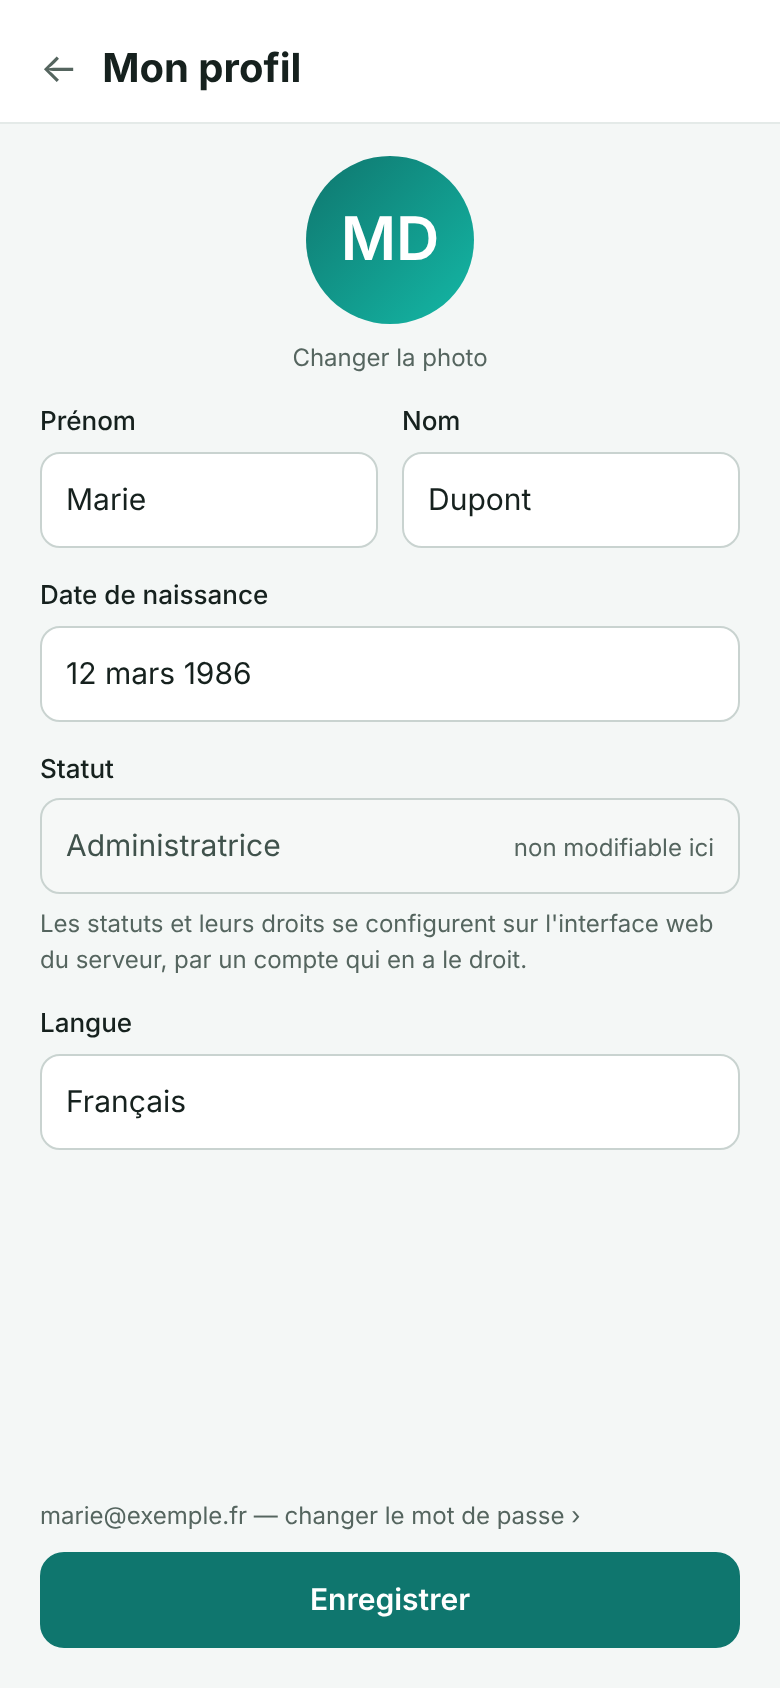
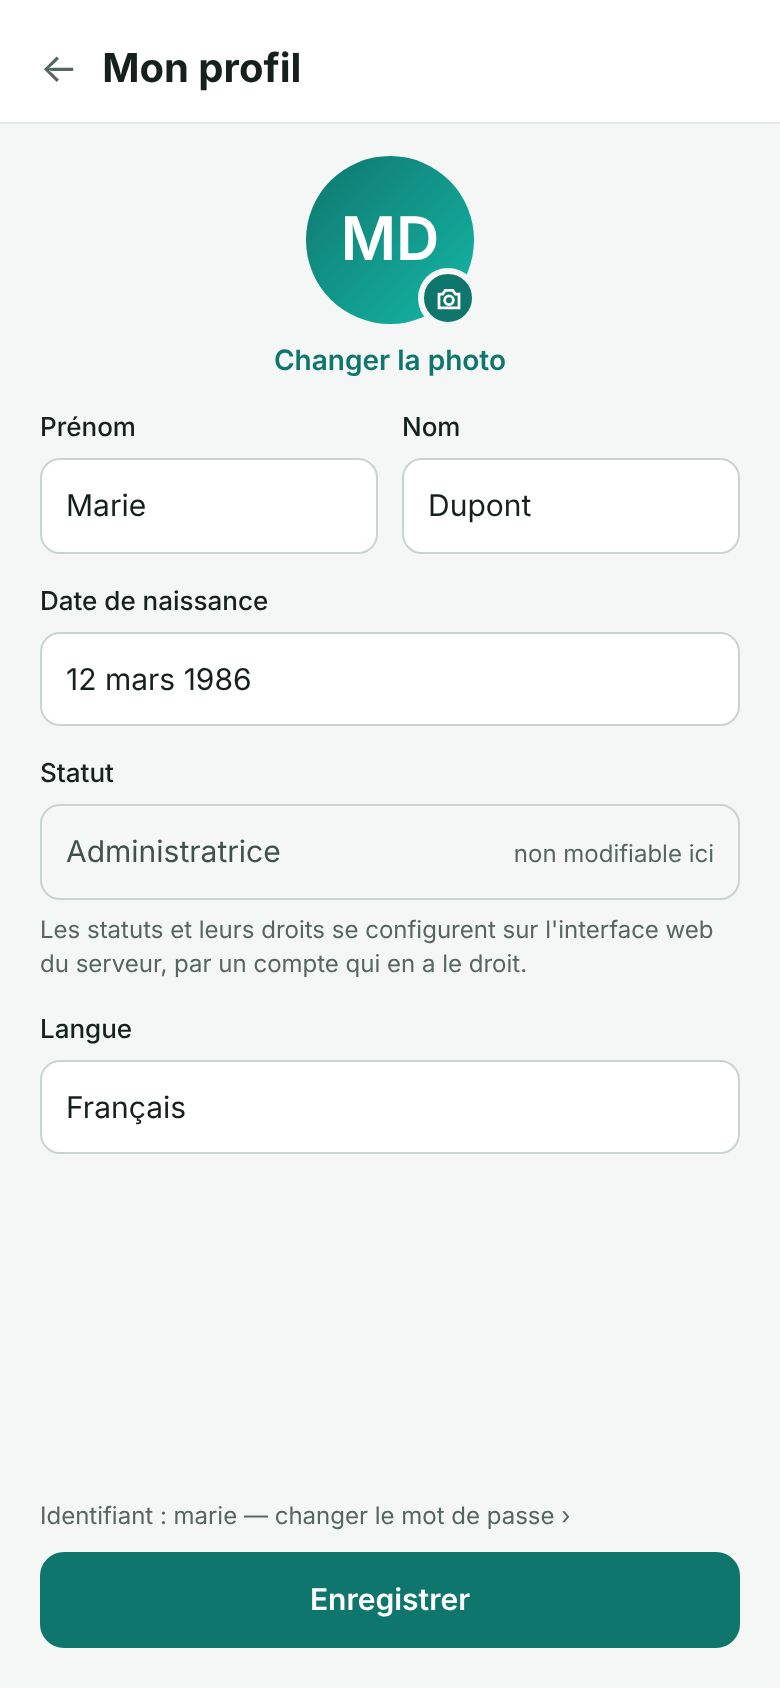
docs(maquettes): ajout rapide, ajout à l'agenda, photo de profil, date de naissance
Claude-Session: https://claude.ai/code/session_01CwM8UZavZyFdh7jkANxEp5

diff --git a/docs/mockups/23-ajout-rapide.html b/docs/mockups/23-ajout-rapide.html
@@ -1,0 +1,120 @@
+<!doctype html>
+<html lang="fr"><head><meta charset="utf-8"><title>Ajout rapide</title><link rel="stylesheet" href="app.css"></head>
+<body style="position:relative">
+  <!-- Pas de sous-titre : « samedi 25 octobre · Maison des Dupont » répétait
+       ce que la barre d'état et l'écran Foyer disent déjà. -->
+  <header class="entete">
+    <!-- Le volet de navigation s'ouvre ici (ou en glissant depuis le bord
+         gauche) : Foyer, Réglages et le reste y vivent. -->
+    <div class="ligne">
+      <svg viewBox="0 0 24 24" width="26" height="26" fill="none" stroke="currentColor" stroke-width="2" stroke-linecap="round"><path d="M4 7h16M4 12h16M4 17h16"/></svg>
+      <div style="flex:1"><h1>Accueil</h1></div>
+    </div>
+  </header>
+
+  <div class="corps" style="gap:16px">
+    <div class="section">
+      <h2>En retard</h2>
+      <div class="carte" style="border-color:var(--alerte-trait);background:var(--alerte-fond)">
+        <div class="ligne">
+          <div class="case"></div>
+          <div style="flex:1;min-width:0">
+            <h3>Changer les draps</h3>
+            <p class="muet" style="color:var(--alerte-encre)">Il y a 23 jours — à refaire dans les 14 jours</p>
+          </div>
+          <span class="etiquette alerte">De fond</span>
+        </div>
+      </div>
+      <div class="carte" style="border-color:var(--alerte-trait)">
+        <div class="ligne">
+          <div class="case"></div>
+          <div style="flex:1;min-width:0">
+            <h3>Changer le fusible</h3>
+            <p class="muet" style="color:var(--alerte-encre)">Date limite dépassée de 2 jours</p>
+          </div>
+          <span class="etiquette urgente">Urgente</span>
+        </div>
+      </div>
+    </div>
+
+    <div class="section">
+      <h2>Mes tâches du jour</h2>
+      <div class="carte">
+        <div class="ligne">
+          <div class="case"></div>
+          <div style="flex:1;min-width:0">
+            <h3>Sortir les poubelles</h3>
+            <p class="groupe" style="margin-top:2px"><i style="background:#0f766e"></i>Cuisine · 19 h 00</p>
+          </div>
+          <span class="etiquette haute">Haute</span>
+        </div>
+      </div>
+      <div class="carte">
+        <div class="ligne">
+          <div class="case cochee">✓</div>
+          <div style="flex:1;min-width:0">
+            <h3 style="text-decoration:line-through;color:var(--gris)">Vider le lave-vaisselle</h3>
+            <p class="muet">Fait à 8 h 12</p>
+          </div>
+        </div>
+      </div>
+    </div>
+
+    <!-- La semaine, pas le seul jour : un rendez-vous de mercredi découvert
+         mercredi matin est découvert trop tard. -->
+    <div class="section">
+      <h2>Rendez-vous de la semaine</h2>
+      <div class="carte pile" style="gap:0">
+        <p class="jour">Aujourd'hui</p>
+        <div class="ligne" style="padding:8px 0">
+          <div style="flex:none;width:46px;text-align:center"><p style="font-weight:700">15:30</p></div>
+          <div style="flex:1;min-width:0;border-left:3px solid var(--accent);padding-left:10px">
+            <h3 style="font-size:15px">Dentiste — Lou</h3>
+            <p class="muet">Cabinet Martin</p>
+          </div>
+        </div>
+        <p class="jour" style="margin-top:6px">Lundi 27</p>
+        <div class="ligne" style="padding:8px 0">
+          <div style="flex:none;width:46px;text-align:center"><p style="font-weight:700">18:00</p></div>
+          <div style="flex:1;min-width:0;border-left:3px solid #7c3aed;padding-left:10px">
+            <h3 style="font-size:15px">Réunion parents</h3>
+            <p class="muet">École — Marie, Paul</p>
+          </div>
+        </div>
+        <p class="muet" style="padding-top:8px;border-top:1px solid var(--trait);margin-top:4px">Voir tout l'agenda ›</p>
+      </div>
+    </div>
+
+    <div class="section">
+      <div class="ligne" style="justify-content:space-between">
+        <h2>À faire par les autres</h2>
+        <span class="muet">3 ▾</span>
+      </div>
+    </div>
+  </div>
+
+<!-- Bouton d'ajout : toujours au même endroit, au-dessus de la barre. -->
+<div style="position:absolute;right:20px;bottom:84px;width:58px;height:58px;border-radius:18px;background:var(--accent);color:#fff;display:flex;align-items:center;justify-content:center;box-shadow:0 6px 16px rgba(15,118,110,.35)"><svg viewBox="0 0 24 24" width="28" height="28" fill="none" stroke="currentColor" stroke-width="2.4" stroke-linecap="round"><path d="M12 5v14M5 12h14"/></svg></div>
+<nav class="nav">
+  <div class="N1 actif"><svg viewBox="0 0 24 24" fill="none" stroke="currentColor" stroke-width="2" stroke-linecap="round"><path d="M3 10.5 12 3l9 7.5"/><path d="M5 10v10h14V10"/></svg>Accueil</div>
+  <div class="N2"><svg viewBox="0 0 24 24" fill="none" stroke="currentColor" stroke-width="2" stroke-linecap="round"><path d="M9 6h11M9 12h11M9 18h11"/><path d="m3 6 1.5 1.5L7 5M3 12l1.5 1.5L7 11M3 18l1.5 1.5L7 17"/></svg>Tâches</div>
+  <div class="N3"><svg viewBox="0 0 24 24" fill="none" stroke="currentColor" stroke-width="2" stroke-linecap="round"><rect x="3" y="5" width="18" height="16" rx="2"/><path d="M8 3v4M16 3v4M3 10h18"/></svg>Agenda</div>
+</nav>
+
+<div style="position:absolute;inset:0;background:rgba(16,23,21,.45)"></div>
+<div style="position:absolute;left:0;right:0;bottom:0;background:var(--surface);border-radius:22px 22px 0 0;padding:10px 20px 24px;display:flex;flex-direction:column;gap:14px">
+  <div style="width:36px;height:4px;border-radius:2px;background:var(--trait-net);margin:0 auto 4px"></div>
+  <h3 style="font-size:18px">Ajouter</h3>
+  <!-- Trois choses à ajouter, le type d'abord : c'est lui qui décide des champs. -->
+  <div class="segment"><span class="actif">Tâche</span><span>Rendez-vous</span><span>De fond</span></div>
+  <div class="champ"><label>Titre</label><div class="saisie">Changer l'ampoule de la salle de bain</div></div>
+  <div class="champ"><label>Quand</label>
+    <div class="filtres"><span>Une fois</span><span class="actif">Avant une date</span><span>Chaque semaine</span></div>
+  </div>
+  <div class="champ"><label>Date limite</label><div class="saisie">Vendredi 30 octobre</div></div>
+  <div class="ligne" style="gap:10px">
+    <div class="bouton" style="flex:1">Plus d'options</div>
+    <div class="bouton primaire" style="flex:1">Ajouter</div>
+  </div>
+</div>
+</body></html>

diff --git a/docs/mockups/25-photo.html b/docs/mockups/25-photo.html
@@ -1,0 +1,67 @@
+<!doctype html>
+<html lang="fr"><head><meta charset="utf-8"><title>Changer la photo</title><link rel="stylesheet" href="app.css"></head>
+<body style="position:relative">
+  <header class="entete">
+    <div class="ligne">
+      <span style="font-size:20px;color:var(--gris)">←</span>
+      <h1 style="font-size:20px">Mon profil</h1>
+    </div>
+  </header>
+
+  <div class="corps" style="gap:14px">
+    <div class="pile" style="align-items:center;gap:8px">
+      <!-- Un appui sur la photo propose : prendre une photo, choisir dans la
+           galerie, ou la retirer (les initiales reviennent). -->
+      <span style="position:relative">
+        <span class="photo grande" style="background:linear-gradient(135deg,#0f766e,#14b8a6)">MD</span>
+        <span style="position:absolute;right:-2px;bottom:-2px;width:30px;height:30px;border-radius:50%;background:var(--accent);color:#fff;border:3px solid var(--fond);display:flex;align-items:center;justify-content:center"><svg viewBox="0 0 24 24" width="15" height="15" fill="none" stroke="currentColor" stroke-width="2.2" stroke-linecap="round"><path d="M4 8h3l2-3h6l2 3h3v11H4z"/><circle cx="12" cy="13" r="3.5"/></svg></span>
+      </span>
+      <p style="font-size:14px;font-weight:600;color:var(--accent)">Changer la photo</p>
+    </div>
+
+    <div class="ligne" style="gap:12px;align-items:flex-end">
+      <div class="champ" style="flex:1">
+        <label>Prénom</label>
+        <div class="saisie">Marie</div>
+      </div>
+      <div class="champ" style="flex:1">
+        <label>Nom</label>
+        <div class="saisie">Dupont</div>
+      </div>
+    </div>
+
+    <div class="champ">
+      <label>Date de naissance</label>
+      <div class="saisie">12 mars 1986</div>
+    </div>
+
+    <!-- Le statut est affiché, pas modifiable : personne ne change son
+         propre statut, et les statuts se configurent au navigateur. -->
+    <div class="champ">
+      <label>Statut</label>
+      <div class="saisie" style="background:var(--surface-douce);color:var(--encre-douce);justify-content:space-between">
+        <span>Administratrice</span><span class="muet">non modifiable ici</span>
+      </div>
+      <p class="muet">Les statuts et leurs droits se configurent sur l'interface web du
+        serveur, par un compte qui en a le droit.</p>
+    </div>
+
+    <div class="champ">
+      <label>Langue</label>
+      <div class="saisie">Français</div>
+    </div>
+
+    <div class="pile" style="margin-top:auto">
+      <div class="muet">Identifiant : marie — changer le mot de passe ›</div>
+      <div class="bouton primaire">Enregistrer</div>
+    </div>
+  </div>
+
+<div style="position:absolute;inset:0;background:rgba(16,23,21,.45)"></div>
+<div style="position:absolute;left:0;right:0;bottom:0;background:var(--surface);border-radius:22px 22px 0 0;padding:10px 12px 24px">
+  <div style="width:36px;height:4px;border-radius:2px;background:var(--trait-net);margin:0 auto 14px"></div>
+  <div class="reglage" style="padding:15px 10px">Prendre une photo</div>
+  <div class="reglage" style="padding:15px 10px">Choisir dans la galerie</div>
+  <div class="reglage" style="padding:15px 10px;color:#b91c1c">Retirer la photo</div>
+</div>
+</body></html>

diff --git a/docs/mockups/24-nouveau-rdv.html b/docs/mockups/24-nouveau-rdv.html
@@ -1,0 +1,32 @@
+<!doctype html>
+<html lang="fr"><head><meta charset="utf-8"><title>Nouveau rendez-vous</title><link rel="stylesheet" href="app.css"></head>
+<body>
+  <header class="entete">
+    <div class="ligne">
+      <span style="font-size:20px;color:var(--gris)">←</span>
+      <h1 style="font-size:20px;flex:1">Nouveau rendez-vous</h1>
+      <svg viewBox="0 0 24 24" width="26" height="26" fill="none" stroke="currentColor" stroke-width="2" stroke-linecap="round"><path d="M4 7h16M4 12h16M4 17h16"/></svg>
+    </div>
+  </header>
+  <div class="corps" style="gap:13px">
+    <div class="champ"><label>Titre</label><div class="saisie">Dentiste — Lou</div></div>
+    <div class="ligne" style="justify-content:space-between;font-size:15px"><span>Journée entière</span>
+      <span style="width:44px;height:26px;border-radius:13px;background:var(--trait-net);position:relative"><i style="position:absolute;left:3px;top:3px;width:20px;height:20px;border-radius:50%;background:#fff"></i></span></div>
+    <div class="ligne" style="gap:10px">
+      <div class="champ" style="flex:1.4"><label>Début</label><div class="saisie">Mar. 3 novembre</div></div>
+      <div class="champ" style="flex:1"><label>&nbsp;</label><div class="saisie">15:30</div></div>
+    </div>
+    <div class="ligne" style="gap:10px">
+      <div class="champ" style="flex:1.4"><label>Fin</label><div class="saisie">Mar. 3 novembre</div></div>
+      <div class="champ" style="flex:1"><label>&nbsp;</label><div class="saisie">16:15</div></div>
+    </div>
+    <div class="champ"><label>Lieu</label><div class="saisie" style="color:var(--gris)">Facultatif</div></div>
+    <div class="champ"><label>Qui est concerné</label>
+      <div class="ligne" style="flex-wrap:wrap;gap:6px"><span style="display:inline-flex;align-items:center;gap:6px;border:1px solid var(--accent);background:var(--accent-doux);border-radius:999px;padding:4px 10px 4px 4px;font-size:13px;font-weight:600"><span class="photo" style="width:24px;height:24px;font-size:10px;background:#7C3AED">L</span>Lou</span><span style="display:inline-flex;align-items:center;gap:6px;border:1px solid var(--accent);background:var(--accent-doux);border-radius:999px;padding:4px 10px 4px 4px;font-size:13px;font-weight:600"><span class="photo" style="width:24px;height:24px;font-size:10px;background:#0f766e">M</span>Marie</span><span style="display:inline-flex;align-items:center;gap:6px;border:1px solid var(--trait-net);background:var(--surface);border-radius:999px;padding:4px 10px 4px 4px;font-size:13px;font-weight:400"><span class="photo" style="width:24px;height:24px;font-size:10px;background:#B45309">P</span>Paul</span></div>
+    </div>
+    <div class="champ"><label>Visible par</label>
+      <div class="segment"><span class="actif">Tout le foyer</span><span>Moi seulement</span></div>
+    </div>
+    <div class="bouton primaire" style="margin-top:4px">Enregistrer</div>
+  </div>
+</body></html>

diff --git a/docs/mockups/5-agenda.html b/docs/mockups/5-agenda.html
@@ -11,9 +11,10 @@
   .entete-jours { display:grid; grid-template-columns:repeat(7,1fr); gap:4px; font-size:11px;
     color:var(--gris); text-align:center; margin-bottom:4px; }
 </style></head>
-<body>
+<body style="position:relative">
   <header class="entete">
     <div class="ligne">
+      <svg viewBox="0 0 24 24" width="26" height="26" fill="none" stroke="currentColor" stroke-width="2" stroke-linecap="round"><path d="M4 7h16M4 12h16M4 17h16"/></svg>
       <div style="flex:1"><h1>Octobre 2026</h1></div>
       <span style="color:var(--gris)">‹ ›</span>
     </div>
@@ -74,12 +75,12 @@
     </div>
   </div>
 
+<!-- Bouton d'ajout : toujours au même endroit, au-dessus de la barre. -->
+<div style="position:absolute;right:20px;bottom:84px;width:58px;height:58px;border-radius:18px;background:var(--accent);color:#fff;display:flex;align-items:center;justify-content:center;box-shadow:0 6px 16px rgba(15,118,110,.35)"><svg viewBox="0 0 24 24" width="28" height="28" fill="none" stroke="currentColor" stroke-width="2.4" stroke-linecap="round"><path d="M12 5v14M5 12h14"/></svg></div>
 <nav class="nav">
   <div class="N1"><svg viewBox="0 0 24 24" fill="none" stroke="currentColor" stroke-width="2" stroke-linecap="round"><path d="M3 10.5 12 3l9 7.5"/><path d="M5 10v10h14V10"/></svg>Accueil</div>
   <div class="N2"><svg viewBox="0 0 24 24" fill="none" stroke="currentColor" stroke-width="2" stroke-linecap="round"><path d="M9 6h11M9 12h11M9 18h11"/><path d="m3 6 1.5 1.5L7 5M3 12l1.5 1.5L7 11M3 18l1.5 1.5L7 17"/></svg>Tâches</div>
   <div class="N3 actif"><svg viewBox="0 0 24 24" fill="none" stroke="currentColor" stroke-width="2" stroke-linecap="round"><rect x="3" y="5" width="18" height="16" rx="2"/><path d="M8 3v4M16 3v4M3 10h18"/></svg>Agenda</div>
-  <div class="N4"><svg viewBox="0 0 24 24" fill="none" stroke="currentColor" stroke-width="2" stroke-linecap="round"><circle cx="9" cy="9" r="3"/><path d="M3 20a6 6 0 0 1 12 0M16 7a3 3 0 0 1 0 6M18 20a6 6 0 0 0-3-5.2"/></svg>Foyer</div>
-  <div class="N5"><svg viewBox="0 0 24 24" fill="none" stroke="currentColor" stroke-width="2" stroke-linecap="round"><circle cx="12" cy="12" r="3.2"/><path d="M19.4 14.5a1.6 1.6 0 0 0 .3 1.8l.1.1a1.8 1.8 0 1 1-2.5 2.5l-.1-.1a1.6 1.6 0 0 0-2.7 1.1v.3a1.8 1.8 0 1 1-3.6 0v-.2a1.6 1.6 0 0 0-2.7-1.2l-.1.1a1.8 1.8 0 1 1-2.5-2.5l.1-.1A1.6 1.6 0 0 0 4 14a1.8 1.8 0 0 1 0-3.6h.2A1.6 1.6 0 0 0 5.4 7.7l-.1-.1a1.8 1.8 0 1 1 2.5-2.5l.1.1a1.6 1.6 0 0 0 2.7-1.1V3.8a1.8 1.8 0 1 1 3.6 0V4a1.6 1.6 0 0 0 2.7 1.2l.1-.1a1.8 1.8 0 1 1 2.5 2.5l-.1.1a1.6 1.6 0 0 0 1.1 2.7h.3a1.8 1.8 0 1 1 0 3.6h-.2a1.6 1.6 0 0 0-1.2 1z"/></svg>Réglages</div>
 </nav>
 
 </body></html>

diff --git a/docs/mockups/26-commencer-seul.html b/docs/mockups/26-commencer-seul.html
@@ -1,0 +1,24 @@
+<!doctype html>
+<html lang="fr"><head><meta charset="utf-8"><title>Votre foyer</title><link rel="stylesheet" href="app.css"></head>
+<body>
+  <header class="entete">
+    <div class="ligne">
+      <span style="font-size:20px;color:var(--gris)">←</span>
+      <h1 style="font-size:20px">Votre foyer</h1>
+    </div>
+  </header>
+  <div class="corps" style="gap:13px">
+    <p class="muet" style="font-size:14px">Tout reste sur ce téléphone. Le serveur, installé plus tard, reprendra ce qui aura été fait.</p>
+    <div class="champ"><label>Nom du foyer</label><div class="saisie">Maison des Dupont</div></div>
+    <div class="pile" style="align-items:center;gap:6px;margin-top:4px">
+      <span class="photo grande" style="width:72px;height:72px;background:var(--surface-douce);border:2px dashed var(--trait-net);color:var(--gris)"><svg viewBox="0 0 24 24" width="28" height="28" fill="none" stroke="currentColor" stroke-width="2" stroke-linecap="round"><path d="M4 8h3l2-3h6l2 3h3v11H4z"/><circle cx="12" cy="13" r="3.5"/></svg></span>
+      <p style="font-size:13px;font-weight:600;color:var(--accent)">Ajouter une photo (facultatif)</p>
+    </div>
+    <div class="ligne" style="gap:10px;align-items:flex-start">
+      <div class="champ" style="flex:1"><label>Prénom</label><div class="saisie">Marie</div></div>
+      <div class="champ" style="flex:1"><label>Nom</label><div class="saisie">Dupont</div></div>
+    </div>
+    <div class="champ"><label>Date de naissance</label><div class="saisie" style="color:var(--gris)">Facultative</div></div>
+    <div class="bouton primaire">Commencer</div>
+  </div>
+</body></html>

diff --git a/docs/mockups/10-mon-profil.html b/docs/mockups/10-mon-profil.html
@@ -10,8 +10,13 @@
 
   <div class="corps" style="gap:14px">
     <div class="pile" style="align-items:center;gap:8px">
-      <span class="photo grande" style="background:linear-gradient(135deg,#0f766e,#14b8a6)">MD</span>
-      <p class="muet">Changer la photo</p>
+      <!-- Un appui sur la photo propose : prendre une photo, choisir dans la
+           galerie, ou la retirer (les initiales reviennent). -->
+      <span style="position:relative">
+        <span class="photo grande" style="background:linear-gradient(135deg,#0f766e,#14b8a6)">MD</span>
+        <span style="position:absolute;right:-2px;bottom:-2px;width:30px;height:30px;border-radius:50%;background:var(--accent);color:#fff;border:3px solid var(--fond);display:flex;align-items:center;justify-content:center"><svg viewBox="0 0 24 24" width="15" height="15" fill="none" stroke="currentColor" stroke-width="2.2" stroke-linecap="round"><path d="M4 8h3l2-3h6l2 3h3v11H4z"/><circle cx="12" cy="13" r="3.5"/></svg></span>
+      </span>
+      <p style="font-size:14px;font-weight:600;color:var(--accent)">Changer la photo</p>
     </div>
 
     <div class="ligne" style="gap:12px;align-items:flex-end">
@@ -47,7 +52,7 @@
     </div>
 
     <div class="pile" style="margin-top:auto">
-      <div class="muet">marie@exemple.fr — changer le mot de passe ›</div>
+      <div class="muet">Identifiant : marie — changer le mot de passe ›</div>
       <div class="bouton primaire">Enregistrer</div>
     </div>
   </div>

diff --git a/docs/mockups/1-accueil.html b/docs/mockups/1-accueil.html
@@ -1,6 +1,6 @@
 <!doctype html>
 <html lang="fr"><head><meta charset="utf-8"><title>Accueil</title><link rel="stylesheet" href="app.css"></head>
-<body>
+<body style="position:relative">
   <!-- Pas de sous-titre : « samedi 25 octobre · Maison des Dupont » répétait
        ce que la barre d'état et l'écran Foyer disent déjà. -->
   <header class="entete">
@@ -93,6 +93,8 @@
     </div>
   </div>
 
+<!-- Bouton d'ajout : toujours au même endroit, au-dessus de la barre. -->
+<div style="position:absolute;right:20px;bottom:84px;width:58px;height:58px;border-radius:18px;background:var(--accent);color:#fff;display:flex;align-items:center;justify-content:center;box-shadow:0 6px 16px rgba(15,118,110,.35)"><svg viewBox="0 0 24 24" width="28" height="28" fill="none" stroke="currentColor" stroke-width="2.4" stroke-linecap="round"><path d="M12 5v14M5 12h14"/></svg></div>
 <nav class="nav">
   <div class="N1 actif"><svg viewBox="0 0 24 24" fill="none" stroke="currentColor" stroke-width="2" stroke-linecap="round"><path d="M3 10.5 12 3l9 7.5"/><path d="M5 10v10h14V10"/></svg>Accueil</div>
   <div class="N2"><svg viewBox="0 0 24 24" fill="none" stroke="currentColor" stroke-width="2" stroke-linecap="round"><path d="M9 6h11M9 12h11M9 18h11"/><path d="m3 6 1.5 1.5L7 5M3 12l1.5 1.5L7 11M3 18l1.5 1.5L7 17"/></svg>Tâches</div>

diff --git a/docs/mockups/README.md b/docs/mockups/README.md
@@ -37,6 +37,10 @@ coupée passerait sinon pour correcte.
 | `20-se-connecter.html` | Se connecter à un compte existant |
 | `21-reprise.html` | Reprendre le foyer du téléphone sur un serveur neuf : ce qui sera envoyé |
 | `22-reprise-envoyee.html` | Foyer envoyé : la suite se fait sur la page web, puis par le QR code suivant |
+| `23-ajout-rapide.html` | Ajout rapide depuis l'accueil : tâche, rendez-vous ou tâche de fond, en deux champs |
+| `24-nouveau-rdv.html` | Nouveau rendez-vous, depuis le bouton d'ajout de l'agenda |
+| `25-photo.html` | Changer sa photo de profil : prendre, choisir, retirer |
+| `26-commencer-seul.html` | Commencer sans serveur : photo et date de naissance facultatives |
 
 ## Ce que ces maquettes décident
 
